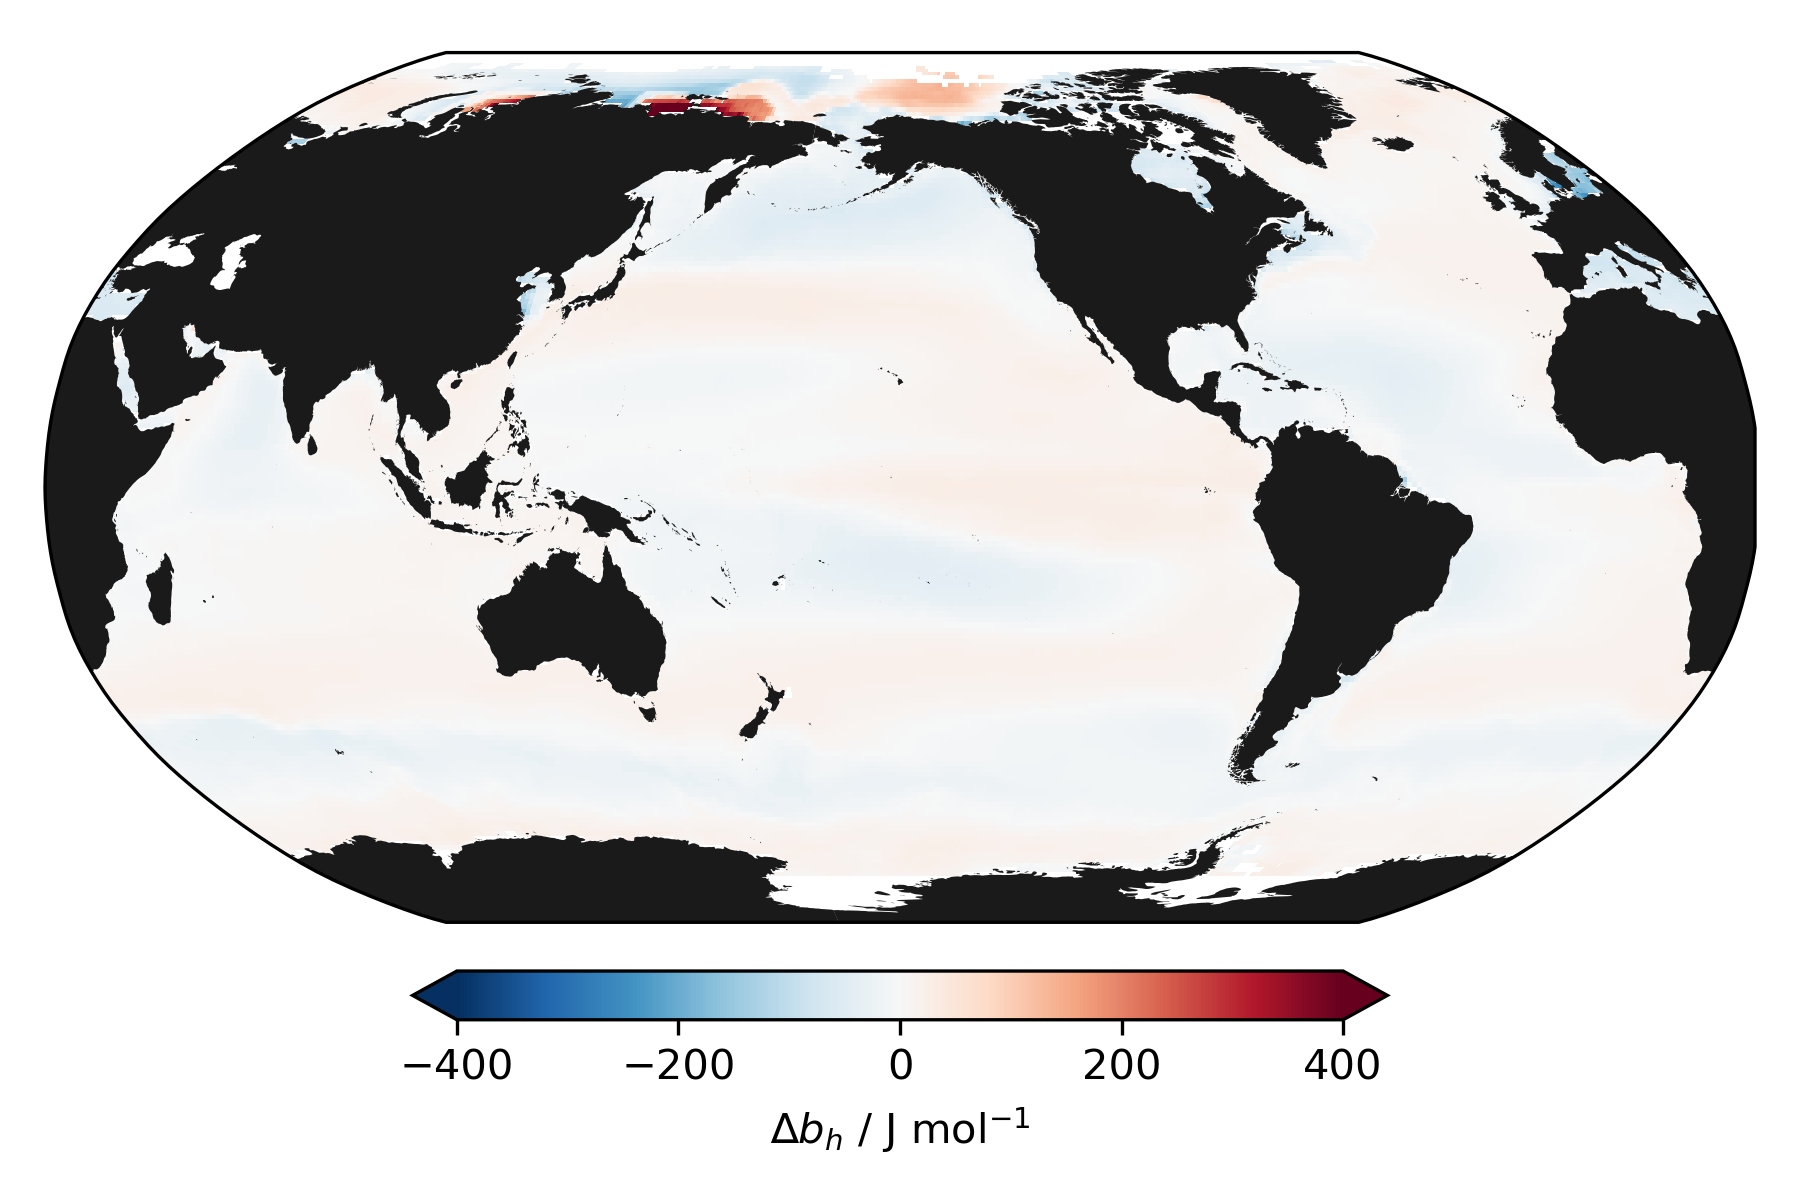
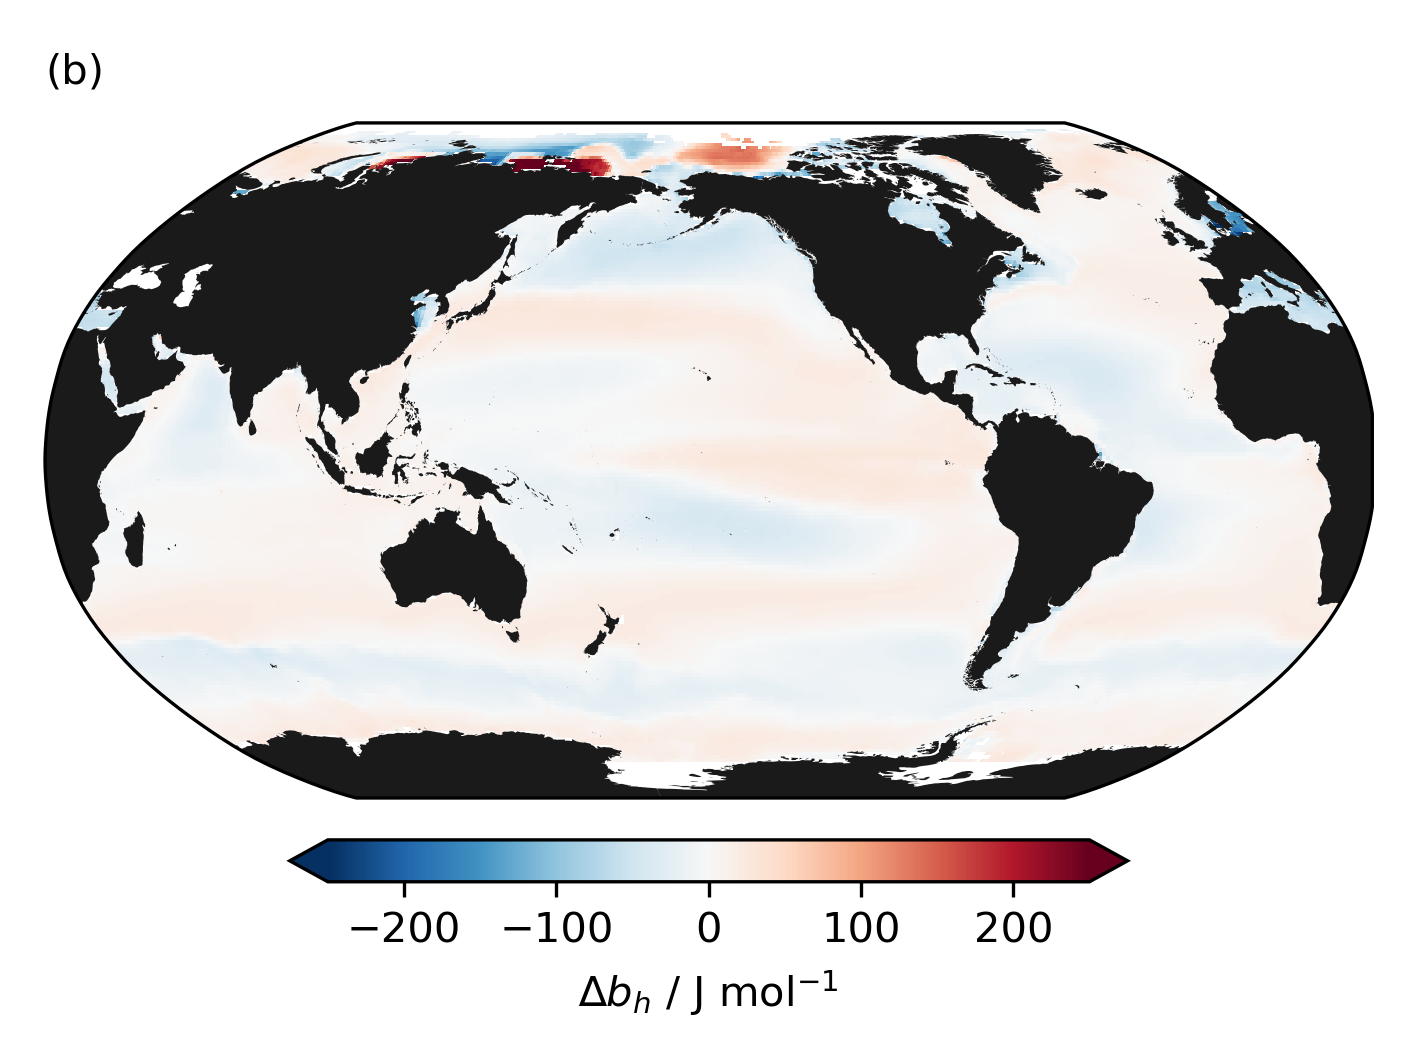
Updates

diff --git a/si_predict_bh.py b/si_predict_bh.py
@@ -16,6 +16,7 @@ opt_k_carbonic = 10
 opt_total_borate = 1
 use_quickload = True
 
+ex_temperature = np.linspace(-1.8, 35.83, num=50)
 if not use_quickload:
     # Import OceanSODA
     soda = xr.open_dataset(
@@ -44,7 +45,6 @@ if not use_quickload:
     soda_monthly["fCO2"] = (("month", "lat", "lon"), results["fCO2"])
 
     # Fit bh across the globe
-    ex_temperature = np.linspace(-1.8, 35.83, num=50)
     soda_monthly["ex_temperature"] = ("ex_temperature", ex_temperature)
     soda_monthly = soda_monthly.set_coords("ex_temperature")
     ex_fCO2 = np.full((*soda_monthly.dlnfCO2_dT.shape, ex_temperature.size), np.nan)
@@ -190,8 +190,8 @@ soda_monthly["bh_predicted"] = get_bh(
 )
 soda_monthly["bh_diff"] = soda_monthly.bh_predicted - soda_monthly.bh
 
-# Plot the 1:1 fit for the parameterisation
-fig, ax = plt.subplots(dpi=300)
+# %% Plot the 1:1 fit for the parameterisation
+fig, ax = plt.subplots(dpi=300, figsize=(9 / 2.54, 9 / 2.54))
 ax.scatter(
     bh * 1e-3,
     bh_predicted * 1e-3,
@@ -207,17 +207,51 @@ ax.set_ylim(axlims)
 ax.set_aspect(1)
 ax.set_xlabel("$b_h$ fitted to OceanSODA-ETZH / kJ mol$^{–1}$")
 ax.set_ylabel("$b_h$ from parameterisation / kJ mol$^{–1}$")
+ax.text(0, 1.03, "(a)", transform=ax.transAxes)
 fig.tight_layout()
 fig.savefig("figures_si/predict_bh_line.png")
 
+# %% Make table for variance-covariance matrix
+bhcov = bh_fit[1]
+bhtxt = np.array(
+    [
+        [
+            "{:.2e}".format(c)
+            .replace("e+01", "∙10")
+            .replace("e-0", "∙10⁻")
+            .replace("e-", "∙10⁻")
+            .replace("⁻10", "⁻¹⁰")
+            .replace("⁻1", "⁻¹")
+            .replace("⁻2", "⁻²")
+            .replace("⁻3", "⁻³")
+            .replace("⁻4", "⁻⁴")
+            .replace("⁻5", "⁻⁵")
+            .replace("⁻6", "⁻⁶")
+            .replace("⁻7", "⁻⁷")
+            .replace("⁻8", "⁻⁸")
+            .replace("⁻9", "⁻⁹")
+            .replace("-", "−")
+            for c in r
+        ]
+        for r in bhcov
+    ]
+)
+with open("si_predict_bh_covmx.txt", mode="w") as f:
+    for r in bhtxt:
+        for c in r:
+            f.write(c + "\t")
+        f.write("\n")
+
 # %% Plot where bh does and doesn't work so well
 fig, ax = plt.subplots(
-    dpi=300, subplot_kw={"projection": ccrs.Robinson(central_longitude=205)}
+    dpi=300,
+    subplot_kw={"projection": ccrs.Robinson(central_longitude=205)},
+    figsize=(12 / 2.54, 9 / 2.54),
 )
 fm = soda_monthly.bh_diff.mean("month").plot(
     ax=ax,
-    vmin=-400,
-    vmax=400,
+    vmin=-250,
+    vmax=250,
     cmap="RdBu_r",
     add_colorbar=False,
     transform=ccrs.PlateCarree(),
@@ -235,6 +269,7 @@ plt.colorbar(
     fraction=0.05,
     extend="both",
 )
+ax.text(0, 1.06, "(b)", transform=ax.transAxes)
 fig.tight_layout()
 fig.savefig("figures_si/predict_bh_map.png")
 
@@ -350,28 +385,42 @@ ax.set_ylabel("RMSD of $b_h$ fit / µatm")
 ax.set_ylim((0, 5.2))
 
 # %%
-fig, ax = plt.subplots(dpi=300)
-ax.scatter(
+fig, axs = plt.subplots(dpi=300, nrows=2, figsize=(10 / 2.54, 15 / 2.54))
+ax = axs[0]
+fs = ax.scatter(
+    "CO2_dic_pct",
+    "fit_bh_rmsd",
+    data=soda_monthly,
+    s=5,
+    alpha=0.9,
+    c="salinity",
+    edgecolor="none",
+)
+plt.colorbar(fs, label="Pracitcal salinity")
+ax.set_xlabel(r"[($T_\mathrm{C}$ $-$ $T_x$) / $T_\mathrm{C}$] / %")
+ax.text(0, 1.05, "(a)", transform=ax.transAxes)
+
+ax = axs[1]
+fs = ax.scatter(
     "alk_non_carb_pct",
     "fit_bh_rmsd",
     data=soda_monthly,
     s=5,
-    alpha=0.2,
+    alpha=0.9,
     c="salinity",
     edgecolor="none",
 )
-# ax.scatter(
-#     "alk_non_carb_bicarb",
-#     "fit_bh_rmsd",
-#     data=baltic,
-#     s=5,
-#     c="xkcd:strawberry",
-#     alpha=0.5,
-#     edgecolor="none",
-# )
 ax.set_xlabel(r"[($A_\mathrm{T}$ $-$ $A_x$) / $A_\mathrm{T}$] / %")
-ax.set_ylabel("RMSD of $b_h$ fit / µatm")
-ax.set_ylim((0, 5.2))
+plt.colorbar(fs, label="Pracitcal salinity")
+ax.text(0, 1.05, "(b)", transform=ax.transAxes)
+
+for ax in axs:
+    ax.grid(alpha=0.2)
+    ax.set_ylim((0, 5.2))
+    ax.set_ylabel("RMSD of $b_h$ fit / µatm")
+
+fig.tight_layout()
+fig.savefig("figures_si/predict_bh_ax_tx.png")
 
 # %%
 fig, ax = plt.subplots(dpi=300)
@@ -385,22 +434,6 @@ ax.scatter(
     edgecolor="none",
 )
 ax.set_xlabel(r"pH$_\mathrm{T}$")
-ax.set_ylabel("RMSD of $b_h$ fit / µatm")
-ax.set_ylim((0, 5.2))
-
-# %%
-fig, ax = plt.subplots(dpi=300)
-fs = ax.scatter(
-    "CO2_dic_pct",
-    "fit_bh_rmsd",
-    data=soda_monthly,
-    s=5,
-    alpha=0.2,
-    c="salinity",
-    edgecolor="none",
-)
-plt.colorbar(fs)
-ax.set_xlabel(r"{[CO$_2$(aq)] / $T_\mathrm{C}$} / %")
 ax.set_ylabel("RMSD of $b_h$ fit / µatm")
 ax.set_ylim((0, 5.2))
 

diff --git a/f14_wanninkhof.py b/f14_wanninkhof.py
@@ -5,6 +5,7 @@ if pyco2path not in path:
     path.append(pyco2path)
 
 import PyCO2SYS as pyco2
+import itertools
 import pandas as pd
 import numpy as np
 from scipy.optimize import least_squares
@@ -112,6 +113,19 @@ ax.set_xlabel("∆$t$ / °C")
 ax.set_ylabel(r"exp($\Upsilon$) SHOULD BE ITALICISED")
 
 # %% visualise with fitted bh from f06b_soda.py
+markers = itertools.cycle(("o", "^", "s", "v", "D", "<", ">"))
+colours = itertools.cycle(
+    (
+        "xkcd:purple",
+        "xkcd:green",
+        "xkcd:blue",
+        "xkcd:pink",
+        "xkcd:brown",
+        "xkcd:red",
+        "xkcd:teal",
+        "xkcd:orange",
+    )
+)
 
 
 def get_bh(temperature, salinity, pCO2):
@@ -150,8 +164,34 @@ wkf["fCO2_bh_fitted"] = wkf.fCO2_d20 * np.exp(
 wkf["fCO2_bh_fitted_diff"] = wkf.fCO2_bh_fitted - wkf.fCO2_uw
 
 fig, ax = plt.subplots(dpi=300)
-ax.scatter("temperature_diff", "fCO2_bh_fitted_diff", data=wkf, s=20, edgecolor="none")
+for expo in wkf.EXPOCODE.unique():
+    L = wkf.EXPOCODE == expo
+    ax.scatter(
+        "temperature_diff",
+        "fCO2_bh_fitted_diff",
+        data=wkf[L],
+        s=20,
+        edgecolor="none",
+        label="{} ({})".format(expo, L.sum()),
+        c=next(colours),
+        marker=next(markers),
+    )
+LL = (
+    (wkf.EXPOCODE == "33RO20050111")
+    & (wkf.fCO2_bh_fitted_diff > 5)
+    & (wkf.temperature_diff < -12)
+)
+ax.scatter(
+    "temperature_diff",
+    "fCO2_bh_fitted_diff",
+    data=wkf[LL],
+    s=20,
+    edgecolor="none",
+    c="k",
+    label="HIGHLIGHT ({})".format(LL.sum()),
+)
 ax.set_ylim((-50, 50))
+ax.legend(ncol=2, loc="upper center", bbox_to_anchor=(0.5, -0.1))
 ax.axhline(0, c="k", lw=0.8)
 
 

diff --git a/surface_maps.py b/surface_maps.py
@@ -1,0 +1,54 @@
+import xarray as xr
+import numpy as np
+from matplotlib import pyplot as plt
+from cartopy import crs as ccrs, feature as cfeature
+
+soda_monthly = xr.open_dataset("quickload/soda_monthly.zarr", engine="zarr")
+
+fig, axs = plt.subplots(
+    dpi=300,
+    nrows=2,
+    ncols=2,
+    figsize=(18 / 2.54, 14 / 2.54),
+    subplot_kw={"projection": ccrs.Robinson(central_longitude=205)},
+)
+letters = ["a", "b", "c", "d"]
+fvars = ["dic", "talk", "temperature", "salinity"]
+vlims = [[1900, 2150], [2150, 2450], [-2, 30], [31.5, 37.5]]
+cmaps = ["viridis", "viridis", "RdBu_r", "viridis"]
+labels = [
+    "DIC / µmol kg$^{-1}$",
+    "Alkalinity / µmol kg$^{-1}$",
+    "Temperature / °C",
+    "Practical salinity",
+]
+for i, ax in enumerate(axs.ravel()):
+    ax.set_facecolor("xkcd:silver")
+    fm = (
+        soda_monthly[fvars[i]]
+        .mean("month")
+        .plot(
+            ax=ax,
+            vmin=vlims[i][0],
+            vmax=vlims[i][1],
+            cmap=cmaps[i],
+            add_colorbar=False,
+            transform=ccrs.PlateCarree(),
+        )
+    )
+    ax.text(0, 1, "(" + letters[i] + ")", transform=ax.transAxes)
+    plt.colorbar(
+        fm,
+        location="bottom",
+        label=labels[i],
+        pad=0.05,
+        aspect=20,
+        fraction=0.04,
+        extend="both",
+    )
+    ax.add_feature(
+        cfeature.NaturalEarthFeature("physical", "land", "50m"),
+        facecolor=0.1 * np.array([1, 1, 1]),
+    )
+fig.tight_layout()
+fig.savefig("figures/surface_maps.png")

diff --git a/si_figure4_both.py b/si_figure4_both.py
@@ -211,7 +211,7 @@ ax.fill_betweenx(
     np.min(t93.temperature),
     np.max(t93.temperature),
     facecolor=pwtools.dark,
-    alpha=0.3,
+    alpha=0.2,
     label="Ta93 $t$ range",
 )
 ax.set_ylabel(r"$σ$[exp($Υ$)] for ∆$t$ = " + "${dt:+}$ °C / %".format(dt=f_dt))

diff --git a/figure2.py b/figure2.py
@@ -204,4 +204,4 @@ ax.legend(
     loc="upper center", bbox_to_anchor=(0.5, -0.15), edgecolor="k", ncol=1, fontsize=9
 )
 fig.tight_layout()
-fig.savefig("figures_final/figure2.png")
+# fig.savefig("figures_final/figure2.png")
